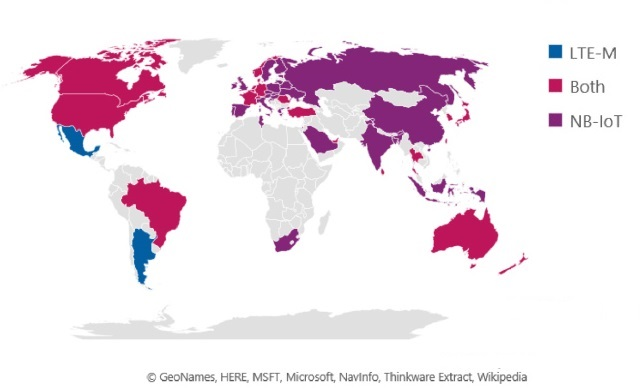
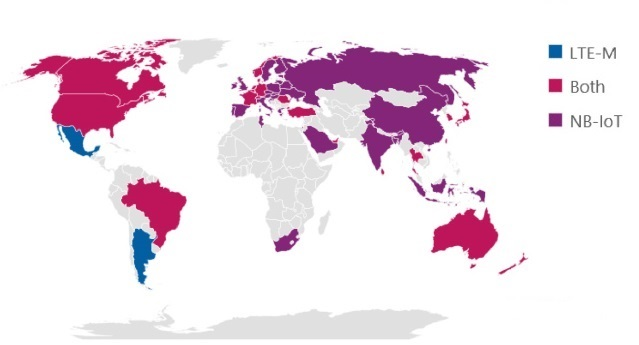
Intro Reorganizing

diff --git a/thesis/v8/1_intro.md b/thesis/v8/1_intro.md
@@ -18,7 +18,7 @@ tablenos-warning-level: 1
 tablenos-number-by-section: true
 ---
 
-![](../images/whitespace.png)
+[](../images/whitespace.png)
 
 \newpage
 
@@ -135,13 +135,13 @@ A number of tests have been developed, performed and analyzed for multiple UEs (
 
 # Introduction {#intro}
 
-Narrowing the spectrum bandwidth for LTE results in a low data-throughput, low energy technology which matches the requirements for wireless IoT, hence NB-IoT.
+Narrowing the spectrum bandwidth for LTE results in a low data-throughput, low energy technology which matches the requirements for wireless IoT, hence Narrowband-IoT (or NB-IoT).
 
 This chapter introduces the reader to various concepts relating to NB-IoT and the performance characteristics thereof. It begins with the question "Why NB-IoT?" before developing the research question, objectives, scope, terminology, background and other various related concepts to fully orient the reader with regards to NB-IoT.
 
 ## Why NB-IoT? {#why}
 
-NB-IoT is an LTE technology developed by the 3GPP as a response to the growing need for an LPWAN to fill the role 2G/GPRS leaves behind as countries around the world schedule its departure. The technology shows performance benefits over alternative LPWANS in terms of up and downlink throughput, range and longevity, yet current research shows that variation in energy consumption leaves battery longevity in question. Nevertheless, according to 3GPP specifications and manufacturer claims, highlights include:
+Narrowband-IoT is an LTE technology developed by the 3GPP as a response to the growing need for an LPWAN to fill the role 2G/GPRS leaves behind as countries around the world schedule its departure. The technology shows performance benefits over alternative LPWANS in terms of up and downlink throughput, range and longevity, yet current research shows that variation in energy consumption leaves battery longevity in question. Nevertheless, according to 3GPP specifications and manufacturer claims, highlights include:
 
 * ~ 10 year battery-lifetime.
 * Under 10 second transmission acknowledgement for latency-tolerant applications
@@ -155,21 +155,31 @@ Knowing that NB-IoT (LTE Cat-NB) is a competitive alternative to LoRaWAN, SigFox
 
 ## Research Objectives {#resobj}
 
-* The aim of this study is to evaluate latency and power efficiency of NB-IoT with a set of metric tests comparing user equipment (UE) devices against multiple mobile network operator (MNO) vendors exposing the change in variability due to proprietary LTE complexities.
+This study has the following aims:
 
-* Whilst theoretical models provide value in showing how factors affect an approximation, the boundless underlying complexities of LTE architecture make it hard to predict the variability induced by unpredictable network conditions. Thus, an empirical approach is proposed. Since the energy efficiency of a single network is questionable in Durand [@Durand2019], Martinez [@Martinez2019] and affected by latency, these will form the main metrics investigated in this study.
+* Latency, power efficiency and other metrics of NB-IoT are to be evaluated using a set of telemetry tests.
 
-* Battery longevity and recommended telemetry intervals are estimated, and secondary metrics such as signal strength, throughput and data overhead are investigated. 
+  
 
-* In turn, the above objectives evaluate robustness, stability, capabilities, sources of variability and claimed versus actual core features.
+* User equipment (UE) devices will be compared against multiple LTE vendors used by mobile network operator (MNOs) exposing the change in variability due to proprietary LTE complexities.
 
-* This thesis aims to highlight the challenges, advantages and disadvantages of the technology. By doing endpoint tests with multiple manufacturers and base station vendors, one can paint an accurate picture of the capabilities of the technology. [^bullets]
+  
+
+* Battery longevity and recommended telemetry intervals are estimated, and other/secondary secondary metrics such as signal strength, throughput and data overhead are investigated.
+
+  
+
+In turn, the above objectives evaluate robustness, stability, capabilities, sources of variability and claimed versus actual core features.
+
+This thesis aims to highlight the challenges, advantages and disadvantages of the technology. By doing endpoint tests with multiple manufacturers and base station vendors, one can paint an accurate picture of the capabilities of the technology. [^bullets]
 
 [^bullets]: ask Thinus if he's happy with objectives like so in sentences, or bulleted?
 
 ## Scope of Work {#scopework}
 
 Although there exists a multitude of UE devices, LTE vendors, estimations and metrics, the study will be limited to the following as seen in Table \ref{tbl:metric_summary} and \ref{tbl:telemetry_ue_lte}.
+
+Whilst theoretical models provide value in showing how factors affect an approximation, the boundless underlying complexities of LTE architecture make it hard to predict the variability induced by unpredictable network conditions. Thus, an empirical approach is proposed. Since the energy efficiency of a single network is questionable in Durand [@Durand2019], Martinez [@Martinez2019] and affected by latency, these will form the main metrics investigated in this study.
 
 Table: Metrics and Estimations {#tbl:metric_summary}
 
@@ -188,14 +198,6 @@ Table: Telemetry Types, UE devices and LTE vendors {#tbl:telemetry_ue_lte}
 | eDRX and PTAU   | Nokia       | Quectel          |
 | COPS            | Ericsson    | Nordic           |
 | Data Echo       | Huawei      | SimCom           |
-
-Considering Table  \ref{tbl:metric_summary} and metrics, a more comprehensive study has been performed on throughput, packet delivery ratio (PDR), maximum coupling link (MCL) and scalability by Durand [@Durand2019]. Martinez has investigated the performance boundaries of NB-IoT for a Vodafone network in Barcelona, Spain [@Martinez2019] including metrics such as energy consumption, transmission delay, enhanced coverage levels (ECLs) and different data sizes. Because power efficiency and latency is significantly affected by variability, important considerations have to be made in application development and thus it is of the main metrics this study is focused on. Between UE device and LTE basestation (BTS) both signal strength (RSRP) and coverage enhancement levels (ECL) can be causes of variability. 
-
-In terms of estimations, variability affects battery lifetime and telemetry interval amongst others. Battery lifetime is defined as the length of time a device will last on an AA battery in years. Telemetry interval is defined as the time between different types of messages to last a year on an AA battery. These two estimations are necessary for developers to consider in battery-powered applications and form an important basis for this study.
-
-The different types of telemetry messages in Table \ref{tbl:telemetry_ue_lte} include UDP datagram transmission, cellular operator selection (COPS), UDP Echo, extended discontinuous reception (eDRX) and periodic tracking area updates (PTAU). UE devices give the option of using the following main data transmission protocols: UDP, TCP, CoAP and MQTT. UDP is a connectionless protocol used for low latency applications and TCP is used to stream data orderly, reliably, but at a cost to data overhead.  CoAP and MQTT are lightweight message transfer protocols based off of UDP and TCP respectively. To measure the data overhead secondary metric caused by network repetitions and other mechanisms, it would be preferable to avoid overhead from other protocols and thus the simplest option is chosen, namely UDP. 
-
-Table \ref{tbl:telemetry_ue_lte} also gives us the following LTE vendors which are among the top 5 in the world: Huawei, Ericsson, Nokia and ZTE. Since there are over a hundred MNOs across the world which also use these LTE vendors, performing this study on the main LTE vendors will also benefit the MNOs. With regard to NB-IoT connectivity on MNOs in South Africa, MTN will be used for ZTE and Ericsson, and Vodacom will be used for Nokia and Huawei. Finally, application developers are likely to use more popular NB-IoT module manufacturers such as Ublox, Quectel, Nordic and SimCom, besides lesser known ones such as Telit, Gemalto, akorIoT and so on. 
 
 The capture method should be easily repeatable and expandable for new UE devices. On the basis that the AT command API is familiar to all UE devices, a framework will be built to extract data via this method. Although all UE devices are usually accessible through AT commands, there are alternative diagnostic methods such as Qualcomm QXDM, UEMonitor and an opensource decoder by LanternD which monitors the debug stream provided over UART at 921600 baud. QXDM is a proprietary diagnostic program built for UE devices with Qualcomm chipsets, yet it costs in excess of a few thousand USD. UEMonitor is free and can capture debug traces from both Ublox and Quectel. LanternD's decoder is still in beta and unstable. Since both Ublox and Quectel's debug messages can be accessed by UEMonitor and LanternD, these UE devices will be used to compare LTE Vendors. There is no support or alternative for Nordic or SimCom devices, however. 
 
@@ -229,26 +231,21 @@ When considering rolling out more coverage, since NB-IoT is based off LTE it mak
 
 [^background]: **history** - from GSM in 90s to 5G NB-IoT. **SA and coverage** - how it "fits" in South Africa and LPWAN sphere. **IoT** - how relevent. **coverage** - ICASA. 3GPP - why they designed it. future. Uncertainty about NB-IoT. standing. uptake. optimal use
 
+## Metrics and Estimations {#metrics_intro}
 
-## Metrics {#metrics_intro}
+Considering Table  \ref{tbl:metric_summary} and metrics, a more comprehensive study has been performed on throughput, packet delivery ratio (PDR), maximum coupling link (MCL) and scalability by Durand [@Durand2019]. Martinez has investigated the performance boundaries of NB-IoT for a Vodafone network in Barcelona, Spain [@Martinez2019] including metrics such as energy consumption, transmission delay, enhanced coverage levels (ECLs) and different data sizes. Because power efficiency and latency is significantly affected by variability, important considerations have to be made in application development and thus it is of the main metrics this study is focused on. Between UE device and LTE basestation (BTS) both signal strength (RSRP) and coverage enhancement levels (ECL) can be causes of variability. 
 
-* **MCL**: For IoT devices used in extended coverage situations,
-  such as deep-indoor devices or remote locations, we recommend either Sigfox or NB-IoT, as they offer a maximum MCL of more than 158 dB. IoT devices for general use would benefit from the large-scale deployment of the GPRS network, which provides excellent coverage because of its legacy infrastructure. It is clear that the extra overhead available in Sigfox, LoRaWAN, and NB-IoT allows for better indoor coverage than GPRS, which means that the LPWAN devices can be used in less than optimal operating conditions. Measured MCL correlates with theoretical values.
-* **Power consumption**: In applications where device battery life is
-  a crucial factor we recommend, either LoRaWAN or Sigfox, because they are completely asynchronous. We found that the battery life of LoRaWAN SF 7 was five times that of LoRaWAN SF 12 and nearly 25 times that of Sigfox. This is mainly due to the extremely long time-on-air of LoRaWAN SF 12 and Sigfox. If NB- IoT worked with the mobile network operators to reduce its RRC- idle phase, it could develop a minimal power consumption to compare with that of LoRaWAN and Sigfox.
-  * It is clear that LoRaWAN SF7 is the most power-efficient, due to the short transmission burst. NB-IoT displays the worst power-consumption, due to the extended RRC-idle state. This can be reduced using Release Assistance as in Section \ref{release_a}.
-* **Throughput**: As throughput differs greatly between the four technologies, comparisons should rather be made in either the licensed (NB-IoT and GPRS) or unlicensed (Sigfox and LoRaWAN) spectrum categories. Applications that require huge amounts of data to be transmitted, such as real-time vehicle fleet monitoring, we recommend GPRS and NB-IoT as they are not duty cycle limited. The choice of GPRS or NB-IoT will be based on the battery life requirements of the IoT device, with NB-IoT having the advantage. In the case of extremely low-throughput applications, such as water meters, power meters, and weather stations, we recommend Sigfox, as it offers a scalable solution with no base station costs involved. Although it limits the 12 byte throughput per 24 h to 140 messages, this is more than the 20 messages offered by LoRaWAN SF12 (TTN).
-  * As NB-IoT operates in the licensed spectrum, there are no
-    throughput restrictions, other than the data-rate restriction. We measured the uplink and downlink data rates in different signal quality environments (distances from the gateway) by querying the modem. The measured downlink rate varied from 2250 to 14,193 bps. We could find no clear correlation between the downlink data rate and the signal quality environment.
-* **Scalability**: 
-  * Lower (sub-500 devices per gateway) scalability of LoRaWAN per base station compared to NB-IoT and GPRS. This low scalability is due to the limited number of channels and the lack of any scheduling between devices. To compensate for the low scalability, an increase in spatially diverse base stations would allow packets to be received by multiple base stations at varying received power levels.
-  * This simulation showed that with 55,000 devices transmitting the base station would reach the 270 simultaneously transmitting devices that Sigfox claims is possible while still ensuring a 99.9% PDR.
-* **Down link latency**: In applications where downlink latency is a
-  critical component, only GPRS will suffice, as it is the only technology in this study that requires constant paging between the base station and the end device. 
-* **Down link throughput**: Any applications requiring bi-directional communication of more than 120 bytes per 24 h, should use NB- IoT or GPRS, as Sigfox and LoRaWAN are limited by the duty- cycle limitations of the base station. 
-* **FoTa**: GPRS and NB-IoT are able to offer FOTA upgrades to IoT devices, as Sigfox ha s limited bandwidth. This feature is supported by LoRaWAN, through the fragmentation of large payloads [22].
+In terms of estimations, variability affects battery lifetime and telemetry interval amongst others. Battery lifetime is defined as the length of time a device will last on an AA battery in years. Telemetry interval is defined as the time between different types of messages to last a year on an AA battery. These two estimations are necessary for developers to consider in battery-powered applications and form an important basis for this study.
+
+## Telemetry Tests
+
+The different types of telemetry messages in Table \ref{tbl:telemetry_ue_lte} include UDP datagram transmission, cellular operator selection (COPS), UDP Echo, extended discontinuous reception (eDRX) and periodic tracking area updates (PTAU). UE devices give the option of using the following main data transmission protocols: UDP, TCP, CoAP and MQTT. UDP is a connectionless protocol used for low latency applications and TCP is used to stream data orderly, reliably, but at a cost to data overhead.  CoAP and MQTT are lightweight message transfer protocols based off of UDP and TCP respectively. To measure the data overhead secondary metric caused by network repetitions and other mechanisms, it would be preferable to avoid overhead from other protocols and thus the simplest option is chosen, namely UDP. 
 
 ## LTE Vendors
+
+Table \ref{tbl:telemetry_ue_lte} gives us the following LTE vendors which are among the top 5 in the world: Huawei, Ericsson, Nokia and ZTE. Since there are over a hundred MNOs across the world which also use these LTE vendors, performing this study on the main LTE vendors will also benefit the MNOs. With regard to NB-IoT connectivity on MNOs in South Africa, MTN will be used for ZTE and Ericsson, and Vodacom will be used for Nokia and Huawei.
+
+
 
 In South Africa, there are two mobile network operators trialing NB-IoT and combined they use four of the top LTE vendors. Samsung has started using NB-IoT only as recently as May 2019, announcing a partnership with [KT to create a Public Safety](https://enterpriseiotinsights.com/20190506/nb-iot/samsung-kt-launch-nbiot-service-through-ps-lte-network-korea) (PS-LTE) network. They're also implementing device-to-device (D2D) communications to increase connectivity in unfavourable conditions.
 
@@ -284,9 +281,19 @@ MNO/BTS Vendors are open to all UE manufacturers.
 
 Other Vendors include: Broadcom Corporation, Cisco Systems, Gemalto NV, Intel Corporation, KDDI Corporation, LG Electronics, MediaTek, Oberthur Technologies, Ooredoo, Orange, Samsung Electronics, Saudi Telecom Company, Sierra Wireless, Telit Communications and VimpelCom.
 
- ![Top LTE vendors in the world showing VoIP and IMS equipment revenue share worldwide in 2017. \textcopyright{Statista, IHS Markit}](../images/chartoftheday_17097_voip_worldwide_revenue_n-1572347674712.jpg)
+ ![Top LTE vendors in the world showing VoIP and IMS equipment revenue share worldwide in 2017. \textcopyright{Statista, IHS Markit}](../images/chartoftheday_17097_voip_worldwide_revenue_n-1572347674712.jpg){width=80%}
+
+### ZTE
+
+### Nokia
+
+### Ericsson
+
+### Huawei
 
 ## UE Manufacturers
+
+Finally, with regard to the UE devices in \ref{tbl:telemetry_ue_lte}, application developers are likely to use more popular NB-IoT module manufacturers such as Ublox, Quectel, Nordic and SimCom, besides lesser known ones such as Telit, Serra Wireless, Gemalto, and akorIoT. 
 
 UE devices specifically used:
 
@@ -308,17 +315,17 @@ and the following recommended in future:
 
 These UEs all share AT commands as the API to control their capabilities.
 
-## Network Coverage {#coverage}
+## Network Coverage Worldwide {#coverage}
 
 Although NB-IoT joined LPWANs circa 2016-2017, world-wide coverage is still growing. This can be seen in Fig. \ref{fig:worldwide_coverage}.  [AT&T announced](https://blog.nordicsemi.com/getconnected/att-launches-nb-iot-network-in-usa) nation-wide coverage of NB-IoT in the USA, alongside its existing LTE Cat-M coverage. Deutsche Telekom and Vodafone cover Europe and China enables millions more IoT devices [@china2019].
 
- ![Countries with deployed/launched NB-IoT and LTE-M networks \textcopyright{GSA, 2019} \label{fig:worldwide_coverage}](../images/countries-deployed-nb-iot-lte-m-networks.jpg){ width=90% } 
+ ![Countries with deployed/launched NB-IoT and LTE-M networks \textcopyright{GSA, 2019} \newline\textcopyright{GeoNames, HERE, MSFT, Microsoft, NavInfo, Thinkware Extract} \label{fig:worldwide_coverage}](../images/countries-deployed-nb-iot-lte-m-networks.jpg){ width=90% } 
+
+### Connectivity in South Africa {#connectivity}
 
 In South Africa, NB-IoT has most of its coverage in the Gauteng province as well as a few sites in other towns and cities. Although Gauteng only covers 1.49% of the land mass in South Africa, it holds ~22% of its ~57 million people so understandably it is great as a live trial run before pushing for national coverage.
 
  ![NB-IoT coverage in South Africa](../images/GautengvsSouthAfrica.png){ width=50% }
-
-### Connectivity in South Africa {#connectivity}
 
 Table: NB-IoT connectivity in South Africa with regard to MNO, LTE vendor and location. 
 

diff --git a/thesis/v8/2_litstudy.md b/thesis/v8/2_litstudy.md
@@ -597,6 +597,24 @@ OK
 Request data from socket 0.
 Echo’d data received
 
+## Metrics
+
+* **MCL**: For IoT devices used in extended coverage situations,
+  such as deep-indoor devices or remote locations, we recommend either Sigfox or NB-IoT, as they offer a maximum MCL of more than 158 dB. IoT devices for general use would benefit from the large-scale deployment of the GPRS network, which provides excellent coverage because of its legacy infrastructure. It is clear that the extra overhead available in Sigfox, LoRaWAN, and NB-IoT allows for better indoor coverage than GPRS, which means that the LPWAN devices can be used in less than optimal operating conditions. Measured MCL correlates with theoretical values.
+* **Power consumption**: In applications where device battery life is
+  a crucial factor we recommend, either LoRaWAN or Sigfox, because they are completely asynchronous. We found that the battery life of LoRaWAN SF 7 was five times that of LoRaWAN SF 12 and nearly 25 times that of Sigfox. This is mainly due to the extremely long time-on-air of LoRaWAN SF 12 and Sigfox. If NB- IoT worked with the mobile network operators to reduce its RRC- idle phase, it could develop a minimal power consumption to compare with that of LoRaWAN and Sigfox.
+  * It is clear that LoRaWAN SF7 is the most power-efficient, due to the short transmission burst. NB-IoT displays the worst power-consumption, due to the extended RRC-idle state. This can be reduced using Release Assistance as in Section \ref{release_a}.
+* **Throughput**: As throughput differs greatly between the four technologies, comparisons should rather be made in either the licensed (NB-IoT and GPRS) or unlicensed (Sigfox and LoRaWAN) spectrum categories. Applications that require huge amounts of data to be transmitted, such as real-time vehicle fleet monitoring, we recommend GPRS and NB-IoT as they are not duty cycle limited. The choice of GPRS or NB-IoT will be based on the battery life requirements of the IoT device, with NB-IoT having the advantage. In the case of extremely low-throughput applications, such as water meters, power meters, and weather stations, we recommend Sigfox, as it offers a scalable solution with no base station costs involved. Although it limits the 12 byte throughput per 24 h to 140 messages, this is more than the 20 messages offered by LoRaWAN SF12 (TTN).
+  * As NB-IoT operates in the licensed spectrum, there are no
+    throughput restrictions, other than the data-rate restriction. We measured the uplink and downlink data rates in different signal quality environments (distances from the gateway) by querying the modem. The measured downlink rate varied from 2250 to 14,193 bps. We could find no clear correlation between the downlink data rate and the signal quality environment.
+* **Scalability**: 
+  * Lower (sub-500 devices per gateway) scalability of LoRaWAN per base station compared to NB-IoT and GPRS. This low scalability is due to the limited number of channels and the lack of any scheduling between devices. To compensate for the low scalability, an increase in spatially diverse base stations would allow packets to be received by multiple base stations at varying received power levels.
+  * This simulation showed that with 55,000 devices transmitting the base station would reach the 270 simultaneously transmitting devices that Sigfox claims is possible while still ensuring a 99.9% PDR.
+* **Down link latency**: In applications where downlink latency is a
+  critical component, only GPRS will suffice, as it is the only technology in this study that requires constant paging between the base station and the end device. 
+* **Down link throughput**: Any applications requiring bi-directional communication of more than 120 bytes per 24 h, should use NB- IoT or GPRS, as Sigfox and LoRaWAN are limited by the duty- cycle limitations of the base station. 
+* **FoTa**: GPRS and NB-IoT are able to offer FOTA upgrades to IoT devices, as Sigfox has limited bandwidth. This feature is supported by LoRaWAN, through the fragmentation of large payloads [22].
+
 ## Available Metrics
 
 When the module is synchronized to the base station and is receiving the signaling the +NUESTATS AT command is able to describe the radio, cell, BLER and throughput statistics.
